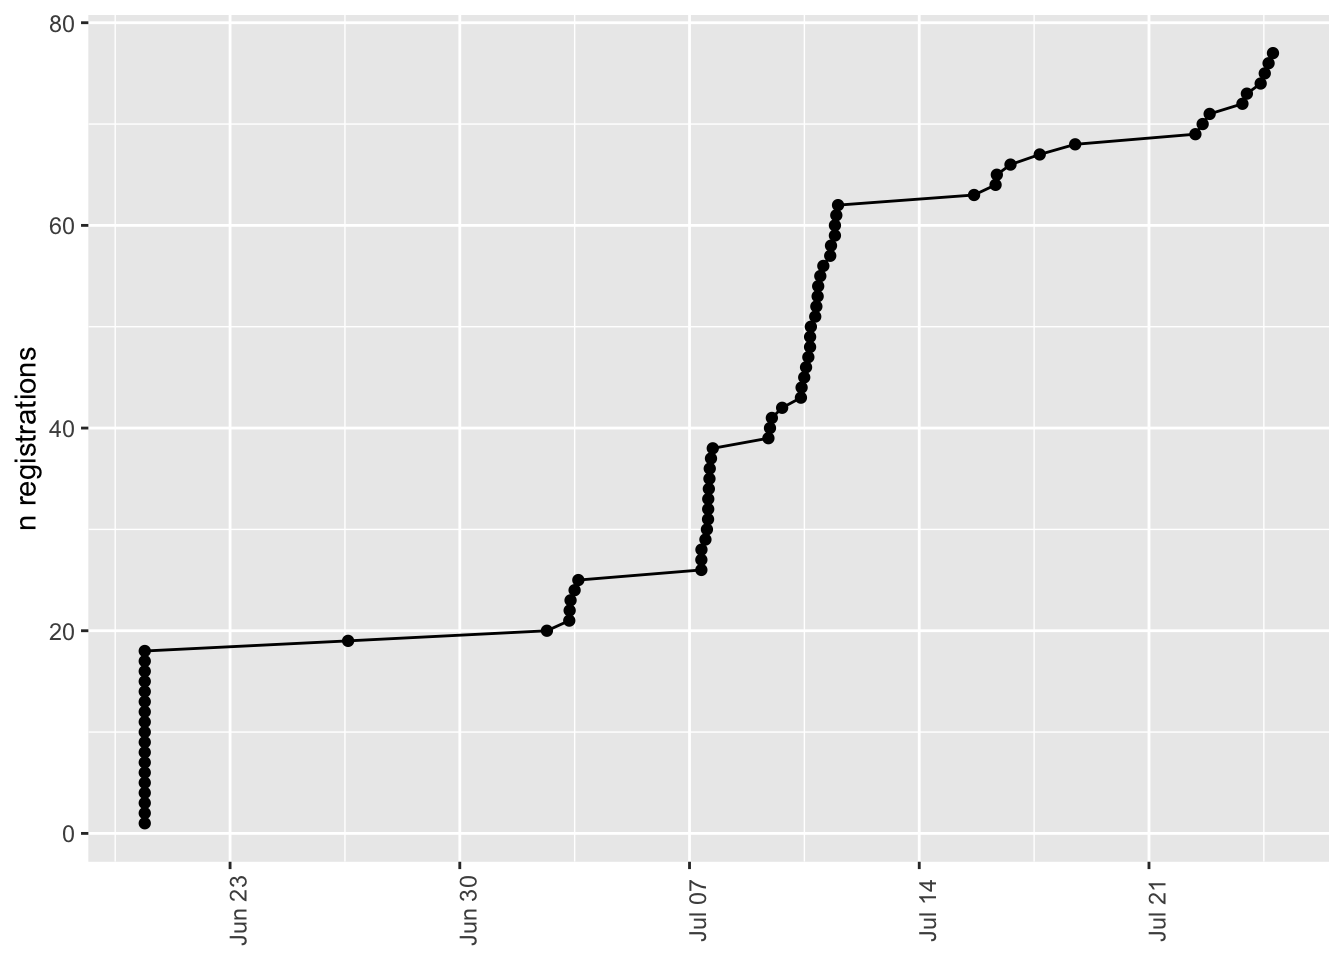
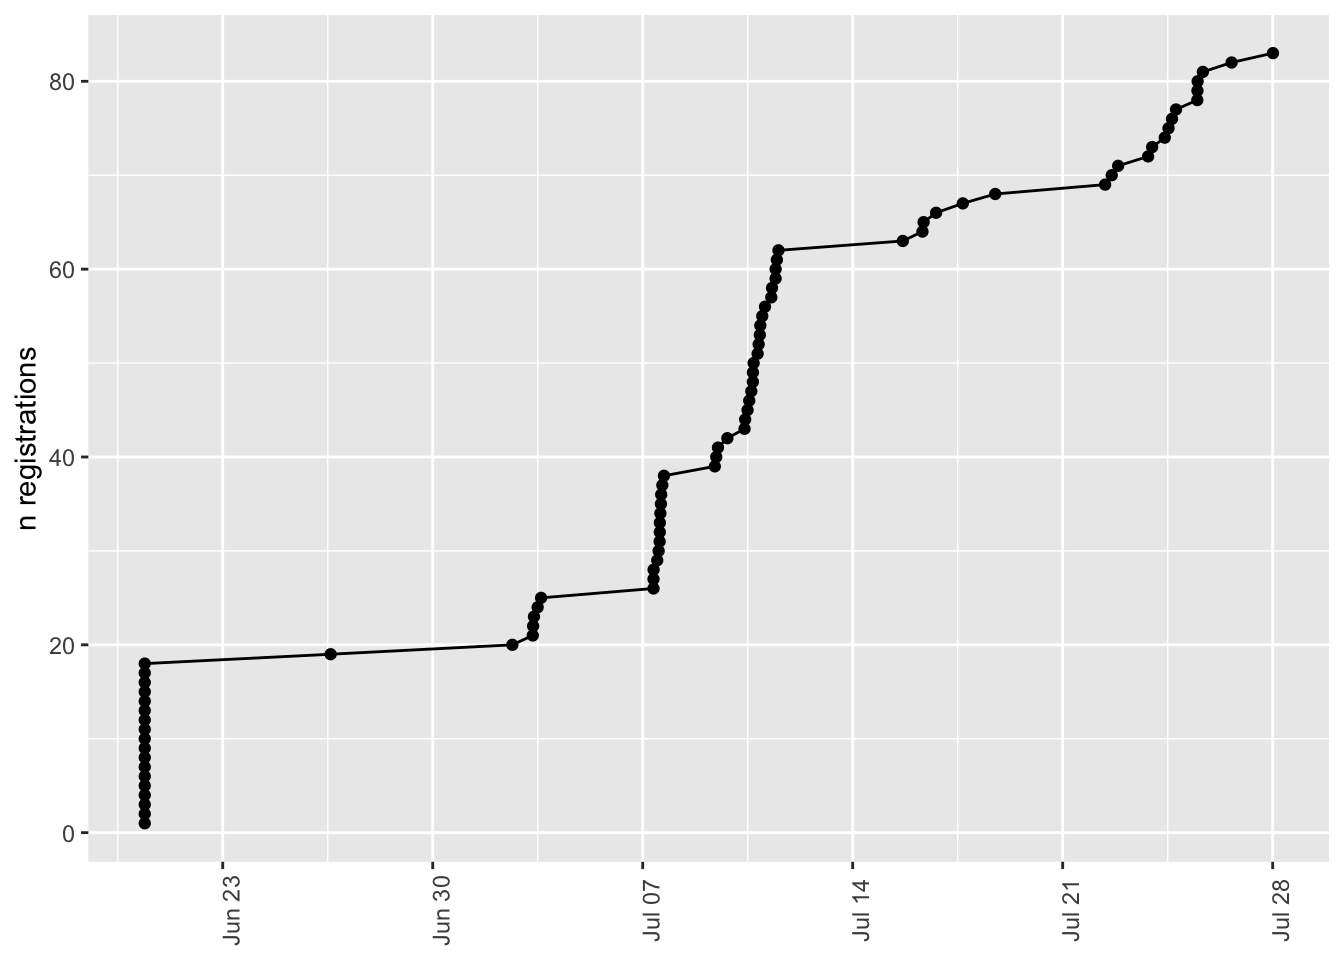
Modify Kelly bio; update registration info.

diff --git a/docs/registration.html b/docs/registration.html
@@ -74,7 +74,7 @@ pre > code.sourceCode > span > a:first-child::before { text-decoration: underlin
 <link href="site_libs/quarto-html/quarto-syntax-highlighting-549806ee2085284f45b00abea8c6df48.css" rel="stylesheet" id="quarto-text-highlighting-styles">
 <script src="site_libs/bootstrap/bootstrap.min.js"></script>
 <link href="site_libs/bootstrap/bootstrap-icons.css" rel="stylesheet">
-<link href="site_libs/bootstrap/bootstrap-d5834695ab2ae62231a582ab30bc15f6.min.css" rel="stylesheet" append-hash="true" id="quarto-bootstrap" data-mode="light">
+<link href="site_libs/bootstrap/bootstrap-c247316b6e3ed5ceb4ec135dfa4e3038.min.css" rel="stylesheet" append-hash="true" id="quarto-bootstrap" data-mode="light">
 <script id="quarto-search-options" type="application/json">{
   "location": "sidebar",
   "copy-button": false,
@@ -270,7 +270,7 @@ pre > code.sourceCode > span > a:first-child::before { text-decoration: underlin
     <div>
     <div class="quarto-title-meta-heading">Modified</div>
     <div class="quarto-title-meta-contents">
-      <p class="date-modified">July 25, 2025</p>
+      <p class="date-modified">July 28, 2025</p>
     </div>
   </div>
     
@@ -503,7 +503,7 @@ Table&nbsp;9.1: A minimal data dictionary.
 <span id="cb7-5"><a href="#cb7-5" aria-hidden="true" tabindex="-1"></a>  dplyr<span class="sc">::</span><span class="fu">mutate</span>(<span class="at">keynotes =</span> stringr<span class="sc">::</span><span class="fu">str_detect</span>(<span class="at">string =</span> bootcamp_keynote, <span class="at">pattern =</span> <span class="st">"address"</span>))</span></code><button title="Copy to Clipboard" class="code-copy-button"><i class="bi"></i></button></pre></div>
 </details>
 </div>
-<p>As of 2025-07-25, we have <em>n</em>=77 registered attendees and presenters. That is 102.7 % of our target registration/attendance limit of <em>n</em>=75.</p>
+<p>As of 2025-07-28, we have <em>n</em>=83 registered attendees and presenters. That is 110.7 % of our target registration/attendance limit of <em>n</em>=75.</p>
 <p>Of these, <em>n</em>=1 are only attending a keynote talk, <em>n</em>=19 are presenting, and <em>n</em>=56 are attending.</p>
 </section>
 <section id="time-series" class="level3 unnumbered">
@@ -581,13 +581,13 @@ n_fri
 <tbody>
 <tr>
 <td style="text-align:right;">
-64
+69
 </td>
 <td style="text-align:right;">
-68
+74
 </td>
 <td style="text-align:right;">
-57
+63
 </td>
 </tr>
 </tbody>
@@ -707,52 +707,54 @@ Figure&nbsp;9.2: Registrations by position
 <span id="cb11-71"><a href="#cb11-71" aria-hidden="true" tabindex="-1"></a>      <span class="st">"Political Science"</span> <span class="sc">~</span> <span class="st">"CLA"</span>,</span>
 <span id="cb11-72"><a href="#cb11-72" aria-hidden="true" tabindex="-1"></a>      <span class="st">"Applied Linguistics"</span> <span class="sc">~</span> <span class="st">"CLA"</span>,</span>
 <span id="cb11-73"><a href="#cb11-73" aria-hidden="true" tabindex="-1"></a>      <span class="st">"Global Languages &amp; Literatures"</span> <span class="sc">~</span> <span class="st">"CLA"</span>,</span>
-<span id="cb11-74"><a href="#cb11-74" aria-hidden="true" tabindex="-1"></a>      <span class="st">"Sociology"</span> <span class="sc">~</span> <span class="st">"CLA"</span>,</span>
-<span id="cb11-75"><a href="#cb11-75" aria-hidden="true" tabindex="-1"></a>      <span class="st">"English"</span> <span class="sc">~</span> <span class="st">"CLA"</span>,</span>
-<span id="cb11-76"><a href="#cb11-76" aria-hidden="true" tabindex="-1"></a>      <span class="st">"C-SoDA"</span> <span class="sc">~</span> <span class="st">"CLA"</span>,</span>
-<span id="cb11-77"><a href="#cb11-77" aria-hidden="true" tabindex="-1"></a>      <span class="st">"Office of Digital Pedagogies and Initiatives"</span> <span class="sc">~</span> <span class="st">"CLA"</span>,</span>
-<span id="cb11-78"><a href="#cb11-78" aria-hidden="true" tabindex="-1"></a>      <span class="st">"Asian Studies"</span> <span class="sc">~</span> <span class="st">"CLA"</span>,</span>
-<span id="cb11-79"><a href="#cb11-79" aria-hidden="true" tabindex="-1"></a>      <span class="st">"Sociology &amp; Criminology"</span> <span class="sc">~</span> <span class="st">"CLA"</span>,</span>
-<span id="cb11-80"><a href="#cb11-80" aria-hidden="true" tabindex="-1"></a>      <span class="st">"IST"</span> <span class="sc">~</span> <span class="st">"IST"</span>,</span>
-<span id="cb11-81"><a href="#cb11-81" aria-hidden="true" tabindex="-1"></a>      <span class="st">"Chemical Engineering"</span> <span class="sc">~</span> <span class="st">"Engineering"</span>,</span>
-<span id="cb11-82"><a href="#cb11-82" aria-hidden="true" tabindex="-1"></a>      <span class="st">"Material Science and Engineering"</span> <span class="sc">~</span> <span class="st">"Engineering"</span>,</span>
-<span id="cb11-83"><a href="#cb11-83" aria-hidden="true" tabindex="-1"></a>      <span class="st">"Engineering Science &amp; Mechanics"</span> <span class="sc">~</span> <span class="st">"Engineering"</span>,</span>
-<span id="cb11-84"><a href="#cb11-84" aria-hidden="true" tabindex="-1"></a>      <span class="st">"College of Engineering"</span> <span class="sc">~</span> <span class="st">"Engineering"</span>,</span>
-<span id="cb11-85"><a href="#cb11-85" aria-hidden="true" tabindex="-1"></a>      <span class="st">"Biomedical Engineering"</span> <span class="sc">~</span> <span class="st">"Engineering"</span>,</span>
-<span id="cb11-86"><a href="#cb11-86" aria-hidden="true" tabindex="-1"></a>      <span class="st">"Nutritional Sciences"</span> <span class="sc">~</span> <span class="st">"HHD"</span>,</span>
-<span id="cb11-87"><a href="#cb11-87" aria-hidden="true" tabindex="-1"></a>      <span class="st">"HDFS"</span> <span class="sc">~</span> <span class="st">"HHD"</span>,</span>
-<span id="cb11-88"><a href="#cb11-88" aria-hidden="true" tabindex="-1"></a>      <span class="st">"Kinesiology"</span> <span class="sc">~</span> <span class="st">"HHD"</span>,</span>
-<span id="cb11-89"><a href="#cb11-89" aria-hidden="true" tabindex="-1"></a>      <span class="st">"Recreation, Park, &amp; Tourism Management"</span> <span class="sc">~</span> <span class="st">"HHD"</span>,</span>
-<span id="cb11-90"><a href="#cb11-90" aria-hidden="true" tabindex="-1"></a>      <span class="st">"BBH"</span> <span class="sc">~</span> <span class="st">"HHD"</span>,</span>
-<span id="cb11-91"><a href="#cb11-91" aria-hidden="true" tabindex="-1"></a>      <span class="st">"College of Nursing"</span> <span class="sc">~</span> <span class="st">"Nursing"</span>,</span>
-<span id="cb11-92"><a href="#cb11-92" aria-hidden="true" tabindex="-1"></a>      <span class="st">"Bellisario College of Communication"</span> <span class="sc">~</span> <span class="st">"Comm"</span>,</span>
-<span id="cb11-93"><a href="#cb11-93" aria-hidden="true" tabindex="-1"></a>      <span class="st">"Mass Communications"</span> <span class="sc">~</span> <span class="st">"Comm"</span>,</span>
-<span id="cb11-94"><a href="#cb11-94" aria-hidden="true" tabindex="-1"></a>      <span class="st">"Marketing"</span> <span class="sc">~</span> <span class="st">"Smeal"</span>,</span>
-<span id="cb11-95"><a href="#cb11-95" aria-hidden="true" tabindex="-1"></a>      <span class="st">"Food Science"</span> <span class="sc">~</span> <span class="st">"Ag"</span>,</span>
-<span id="cb11-96"><a href="#cb11-96" aria-hidden="true" tabindex="-1"></a>      <span class="st">"Neuroscience"</span> <span class="sc">~</span> <span class="st">"Med"</span>,</span>
-<span id="cb11-97"><a href="#cb11-97" aria-hidden="true" tabindex="-1"></a>      <span class="st">"College of Human and Health Development"</span> <span class="sc">~</span> <span class="st">"HHD"</span>,</span>
-<span id="cb11-98"><a href="#cb11-98" aria-hidden="true" tabindex="-1"></a>      <span class="st">"University Libraries"</span> <span class="sc">~</span> <span class="st">"Libraries"</span>,</span>
-<span id="cb11-99"><a href="#cb11-99" aria-hidden="true" tabindex="-1"></a>      <span class="st">"ICDS"</span> <span class="sc">~</span> <span class="st">"ICDS"</span>,</span>
-<span id="cb11-100"><a href="#cb11-100" aria-hidden="true" tabindex="-1"></a>      <span class="st">"EESI"</span> <span class="sc">~</span> <span class="st">"EESI"</span>,</span>
-<span id="cb11-101"><a href="#cb11-101" aria-hidden="true" tabindex="-1"></a>      <span class="st">"ORP"</span> <span class="sc">~</span> <span class="st">"OVPR"</span>,</span>
-<span id="cb11-102"><a href="#cb11-102" aria-hidden="true" tabindex="-1"></a>      <span class="st">"Astronomy &amp; Astrophysics"</span> <span class="sc">~</span> <span class="st">"ECoS"</span>,</span>
-<span id="cb11-103"><a href="#cb11-103" aria-hidden="true" tabindex="-1"></a>      <span class="st">"Chemistry"</span> <span class="sc">~</span> <span class="st">"ECoS"</span>,</span>
-<span id="cb11-104"><a href="#cb11-104" aria-hidden="true" tabindex="-1"></a>      <span class="st">"Mathematics"</span> <span class="sc">~</span> <span class="st">"ECoS"</span>,</span>
-<span id="cb11-105"><a href="#cb11-105" aria-hidden="true" tabindex="-1"></a>      <span class="st">"Entomology"</span> <span class="sc">~</span> <span class="st">"AgSci"</span>,</span>
-<span id="cb11-106"><a href="#cb11-106" aria-hidden="true" tabindex="-1"></a>      <span class="st">"Ecosystem Science &amp; Management"</span> <span class="sc">~</span> <span class="st">"AgSci"</span>,</span>
-<span id="cb11-107"><a href="#cb11-107" aria-hidden="true" tabindex="-1"></a>      <span class="st">"Plant Biology"</span> <span class="sc">~</span> <span class="st">"Huck"</span>,</span>
-<span id="cb11-108"><a href="#cb11-108" aria-hidden="true" tabindex="-1"></a>      <span class="st">"Acoustics"</span> <span class="sc">~</span> <span class="st">"Engineering"</span>,</span>
-<span id="cb11-109"><a href="#cb11-109" aria-hidden="true" tabindex="-1"></a>      <span class="st">"Communication Sciences &amp; Disorders"</span> <span class="sc">~</span> <span class="st">"HHD"</span>,</span>
-<span id="cb11-110"><a href="#cb11-110" aria-hidden="true" tabindex="-1"></a>      <span class="st">"Electrical Engineering &amp; Comp Sci"</span> <span class="sc">~</span> <span class="st">"Engineering"</span>,</span>
-<span id="cb11-111"><a href="#cb11-111" aria-hidden="true" tabindex="-1"></a>      <span class="st">"Population Research Center"</span> <span class="sc">~</span> <span class="st">"SSRI"</span>,</span>
-<span id="cb11-112"><a href="#cb11-112" aria-hidden="true" tabindex="-1"></a>      <span class="st">"Psychology (Harrisburg)"</span> <span class="sc">~</span> <span class="st">"PSU Harrisburg"</span>,</span>
-<span id="cb11-113"><a href="#cb11-113" aria-hidden="true" tabindex="-1"></a>      <span class="st">"Business and Economics"</span> <span class="sc">~</span> <span class="st">"PSU Brandywine"</span>,</span>
-<span id="cb11-114"><a href="#cb11-114" aria-hidden="true" tabindex="-1"></a>      <span class="st">"Engineering"</span> <span class="sc">~</span> <span class="st">"Engineering"</span>,</span>
-<span id="cb11-115"><a href="#cb11-115" aria-hidden="true" tabindex="-1"></a>      <span class="st">"LPS/LDT"</span> <span class="sc">~</span> <span class="st">"Education"</span></span>
-<span id="cb11-116"><a href="#cb11-116" aria-hidden="true" tabindex="-1"></a>    ),</span>
-<span id="cb11-117"><a href="#cb11-117" aria-hidden="true" tabindex="-1"></a>    <span class="at">.default =</span> <span class="st">"Unknown"</span>,</span>
-<span id="cb11-118"><a href="#cb11-118" aria-hidden="true" tabindex="-1"></a>    <span class="at">.missing =</span> <span class="st">"Unknown"</span></span>
-<span id="cb11-119"><a href="#cb11-119" aria-hidden="true" tabindex="-1"></a>  )</span></code><button title="Copy to Clipboard" class="code-copy-button"><i class="bi"></i></button></pre></div>
+<span id="cb11-74"><a href="#cb11-74" aria-hidden="true" tabindex="-1"></a>      <span class="st">"Anthropology"</span> <span class="sc">~</span> <span class="st">"CLA"</span>,</span>
+<span id="cb11-75"><a href="#cb11-75" aria-hidden="true" tabindex="-1"></a>      <span class="st">"Sociology"</span> <span class="sc">~</span> <span class="st">"CLA"</span>,</span>
+<span id="cb11-76"><a href="#cb11-76" aria-hidden="true" tabindex="-1"></a>      <span class="st">"English"</span> <span class="sc">~</span> <span class="st">"CLA"</span>,</span>
+<span id="cb11-77"><a href="#cb11-77" aria-hidden="true" tabindex="-1"></a>      <span class="st">"C-SoDA"</span> <span class="sc">~</span> <span class="st">"CLA"</span>,</span>
+<span id="cb11-78"><a href="#cb11-78" aria-hidden="true" tabindex="-1"></a>      <span class="st">"Office of Digital Pedagogies and Initiatives"</span> <span class="sc">~</span> <span class="st">"CLA"</span>,</span>
+<span id="cb11-79"><a href="#cb11-79" aria-hidden="true" tabindex="-1"></a>      <span class="st">"Asian Studies"</span> <span class="sc">~</span> <span class="st">"CLA"</span>,</span>
+<span id="cb11-80"><a href="#cb11-80" aria-hidden="true" tabindex="-1"></a>      <span class="st">"Sociology &amp; Criminology"</span> <span class="sc">~</span> <span class="st">"CLA"</span>,</span>
+<span id="cb11-81"><a href="#cb11-81" aria-hidden="true" tabindex="-1"></a>      <span class="st">"IST"</span> <span class="sc">~</span> <span class="st">"IST"</span>,</span>
+<span id="cb11-82"><a href="#cb11-82" aria-hidden="true" tabindex="-1"></a>      <span class="st">"Chemical Engineering"</span> <span class="sc">~</span> <span class="st">"Engineering"</span>,</span>
+<span id="cb11-83"><a href="#cb11-83" aria-hidden="true" tabindex="-1"></a>      <span class="st">"Material Science and Engineering"</span> <span class="sc">~</span> <span class="st">"Engineering"</span>,</span>
+<span id="cb11-84"><a href="#cb11-84" aria-hidden="true" tabindex="-1"></a>      <span class="st">"Engineering Science &amp; Mechanics"</span> <span class="sc">~</span> <span class="st">"Engineering"</span>,</span>
+<span id="cb11-85"><a href="#cb11-85" aria-hidden="true" tabindex="-1"></a>      <span class="st">"College of Engineering"</span> <span class="sc">~</span> <span class="st">"Engineering"</span>,</span>
+<span id="cb11-86"><a href="#cb11-86" aria-hidden="true" tabindex="-1"></a>      <span class="st">"Biomedical Engineering"</span> <span class="sc">~</span> <span class="st">"Engineering"</span>,</span>
+<span id="cb11-87"><a href="#cb11-87" aria-hidden="true" tabindex="-1"></a>      <span class="st">"Nutritional Sciences"</span> <span class="sc">~</span> <span class="st">"HHD"</span>,</span>
+<span id="cb11-88"><a href="#cb11-88" aria-hidden="true" tabindex="-1"></a>      <span class="st">"HDFS"</span> <span class="sc">~</span> <span class="st">"HHD"</span>,</span>
+<span id="cb11-89"><a href="#cb11-89" aria-hidden="true" tabindex="-1"></a>      <span class="st">"Kinesiology"</span> <span class="sc">~</span> <span class="st">"HHD"</span>,</span>
+<span id="cb11-90"><a href="#cb11-90" aria-hidden="true" tabindex="-1"></a>      <span class="st">"Recreation, Park, &amp; Tourism Management"</span> <span class="sc">~</span> <span class="st">"HHD"</span>,</span>
+<span id="cb11-91"><a href="#cb11-91" aria-hidden="true" tabindex="-1"></a>      <span class="st">"BBH"</span> <span class="sc">~</span> <span class="st">"HHD"</span>,</span>
+<span id="cb11-92"><a href="#cb11-92" aria-hidden="true" tabindex="-1"></a>      <span class="st">"College of Nursing"</span> <span class="sc">~</span> <span class="st">"Nursing"</span>,</span>
+<span id="cb11-93"><a href="#cb11-93" aria-hidden="true" tabindex="-1"></a>      <span class="st">"Bellisario College of Communication"</span> <span class="sc">~</span> <span class="st">"Comm"</span>,</span>
+<span id="cb11-94"><a href="#cb11-94" aria-hidden="true" tabindex="-1"></a>      <span class="st">"Mass Communications"</span> <span class="sc">~</span> <span class="st">"Comm"</span>,</span>
+<span id="cb11-95"><a href="#cb11-95" aria-hidden="true" tabindex="-1"></a>      <span class="st">"Marketing"</span> <span class="sc">~</span> <span class="st">"Smeal"</span>,</span>
+<span id="cb11-96"><a href="#cb11-96" aria-hidden="true" tabindex="-1"></a>      <span class="st">"Food Science"</span> <span class="sc">~</span> <span class="st">"Ag"</span>,</span>
+<span id="cb11-97"><a href="#cb11-97" aria-hidden="true" tabindex="-1"></a>      <span class="st">"Neuroscience"</span> <span class="sc">~</span> <span class="st">"Med"</span>,</span>
+<span id="cb11-98"><a href="#cb11-98" aria-hidden="true" tabindex="-1"></a>      <span class="st">"College of Human and Health Development"</span> <span class="sc">~</span> <span class="st">"HHD"</span>,</span>
+<span id="cb11-99"><a href="#cb11-99" aria-hidden="true" tabindex="-1"></a>      <span class="st">"University Libraries"</span> <span class="sc">~</span> <span class="st">"Libraries"</span>,</span>
+<span id="cb11-100"><a href="#cb11-100" aria-hidden="true" tabindex="-1"></a>      <span class="st">"ICDS"</span> <span class="sc">~</span> <span class="st">"ICDS"</span>,</span>
+<span id="cb11-101"><a href="#cb11-101" aria-hidden="true" tabindex="-1"></a>      <span class="st">"EESI"</span> <span class="sc">~</span> <span class="st">"EESI"</span>,</span>
+<span id="cb11-102"><a href="#cb11-102" aria-hidden="true" tabindex="-1"></a>      <span class="st">"ORP"</span> <span class="sc">~</span> <span class="st">"OVPR"</span>,</span>
+<span id="cb11-103"><a href="#cb11-103" aria-hidden="true" tabindex="-1"></a>      <span class="st">"Astronomy &amp; Astrophysics"</span> <span class="sc">~</span> <span class="st">"ECoS"</span>,</span>
+<span id="cb11-104"><a href="#cb11-104" aria-hidden="true" tabindex="-1"></a>      <span class="st">"Chemistry"</span> <span class="sc">~</span> <span class="st">"ECoS"</span>,</span>
+<span id="cb11-105"><a href="#cb11-105" aria-hidden="true" tabindex="-1"></a>      <span class="st">"Mathematics"</span> <span class="sc">~</span> <span class="st">"ECoS"</span>,</span>
+<span id="cb11-106"><a href="#cb11-106" aria-hidden="true" tabindex="-1"></a>      <span class="st">"Entomology"</span> <span class="sc">~</span> <span class="st">"AgSci"</span>,</span>
+<span id="cb11-107"><a href="#cb11-107" aria-hidden="true" tabindex="-1"></a>      <span class="st">"Ecosystem Science &amp; Management"</span> <span class="sc">~</span> <span class="st">"AgSci"</span>,</span>
+<span id="cb11-108"><a href="#cb11-108" aria-hidden="true" tabindex="-1"></a>      <span class="st">"Plant Biology"</span> <span class="sc">~</span> <span class="st">"Huck"</span>,</span>
+<span id="cb11-109"><a href="#cb11-109" aria-hidden="true" tabindex="-1"></a>      <span class="st">"Biotechnology"</span> <span class="sc">~</span> <span class="st">"Huck"</span>,</span>
+<span id="cb11-110"><a href="#cb11-110" aria-hidden="true" tabindex="-1"></a>      <span class="st">"Acoustics"</span> <span class="sc">~</span> <span class="st">"Engineering"</span>,</span>
+<span id="cb11-111"><a href="#cb11-111" aria-hidden="true" tabindex="-1"></a>      <span class="st">"Communication Sciences &amp; Disorders"</span> <span class="sc">~</span> <span class="st">"HHD"</span>,</span>
+<span id="cb11-112"><a href="#cb11-112" aria-hidden="true" tabindex="-1"></a>      <span class="st">"Electrical Engineering &amp; Comp Sci"</span> <span class="sc">~</span> <span class="st">"Engineering"</span>,</span>
+<span id="cb11-113"><a href="#cb11-113" aria-hidden="true" tabindex="-1"></a>      <span class="st">"Population Research Center"</span> <span class="sc">~</span> <span class="st">"SSRI"</span>,</span>
+<span id="cb11-114"><a href="#cb11-114" aria-hidden="true" tabindex="-1"></a>      <span class="st">"Psychology (Harrisburg)"</span> <span class="sc">~</span> <span class="st">"PSU Harrisburg"</span>,</span>
+<span id="cb11-115"><a href="#cb11-115" aria-hidden="true" tabindex="-1"></a>      <span class="st">"Business and Economics"</span> <span class="sc">~</span> <span class="st">"PSU Brandywine"</span>,</span>
+<span id="cb11-116"><a href="#cb11-116" aria-hidden="true" tabindex="-1"></a>      <span class="st">"Engineering"</span> <span class="sc">~</span> <span class="st">"Engineering"</span>,</span>
+<span id="cb11-117"><a href="#cb11-117" aria-hidden="true" tabindex="-1"></a>      <span class="st">"LPS/LDT"</span> <span class="sc">~</span> <span class="st">"Education"</span></span>
+<span id="cb11-118"><a href="#cb11-118" aria-hidden="true" tabindex="-1"></a>    ),</span>
+<span id="cb11-119"><a href="#cb11-119" aria-hidden="true" tabindex="-1"></a>    <span class="at">.default =</span> <span class="st">"Unknown"</span>,</span>
+<span id="cb11-120"><a href="#cb11-120" aria-hidden="true" tabindex="-1"></a>    <span class="at">.missing =</span> <span class="st">"Unknown"</span></span>
+<span id="cb11-121"><a href="#cb11-121" aria-hidden="true" tabindex="-1"></a>  )</span></code><button title="Copy to Clipboard" class="code-copy-button"><i class="bi"></i></button></pre></div>
 </details>
 </div>
 <div class="cell">

diff --git a/docs/presenters.html b/docs/presenters.html
@@ -232,7 +232,7 @@ ul.task-list li input[type="checkbox"] {
     <div>
     <div class="quarto-title-meta-heading">Modified</div>
     <div class="quarto-title-meta-contents">
-      <p class="date-modified">July 25, 2025</p>
+      <p class="date-modified">July 28, 2025</p>
     </div>
   </div>
     
@@ -310,6 +310,7 @@ ul.task-list li input[type="checkbox"] {
 <p><img src="include/img/kelly-maurie.jpeg" width="200" height="200"></p>
 </div><div class="column" style="width:50%;">
 <p><a href="https://iee.psu.edu/people/maurie-kelly">Maurie Kelly, Ph.D.</a> is Director of the Pennsylvania Spatial Data Access program, an instructor in the Smeal School of Business and the College of Information Science and Technology, and Director of the Penn State <a href="https://www.datacommons.psu.edu">Data Commons</a>.</p>
+<p><a href="https://iee.psu.edu/people/maurie-kelly">Maurie Kelly, Ph.D.</a> is a member of the research faculty at Penn State Institute of Energy and the Environment where she serves as the Director of <a href="https://pasda.psu.edu">Pennsylvania Spatial Data Access</a>, the PA geospatial data access portal and the <a href="https://datacommons.psu.edu">Penn State Data Commons</a>, a PSU institutional research data repository. In addition to PASDA and the Data Commons, she currently leads several big data/geospatial projects including the <a href="https://minemaps.psu.edu">PA Mine Map Atlas</a>, the <a href="https://pafloodrisk.psu.edu">PA Flood Risk Assessment Tool</a>, and <a href="https://pennpilot.psu.edu">Penn Pilot</a>. She is a member of the Pennsylvania Geospatial Coordinating Board, and several related task forces including the Emerging Technologies subcommittee, Services Delivery Task Force, and the Elevation Working Group. Maurie also serves as an instructor for the Smeal College of Business, teaching courses in international business, sustainability, and complex negotiations. She is a member of the editorial board of the International Journal of Data Mining, Modelling, and Management and the International Journal of Society Systems Science.</p>
 </div>
 </div>
 </section>
